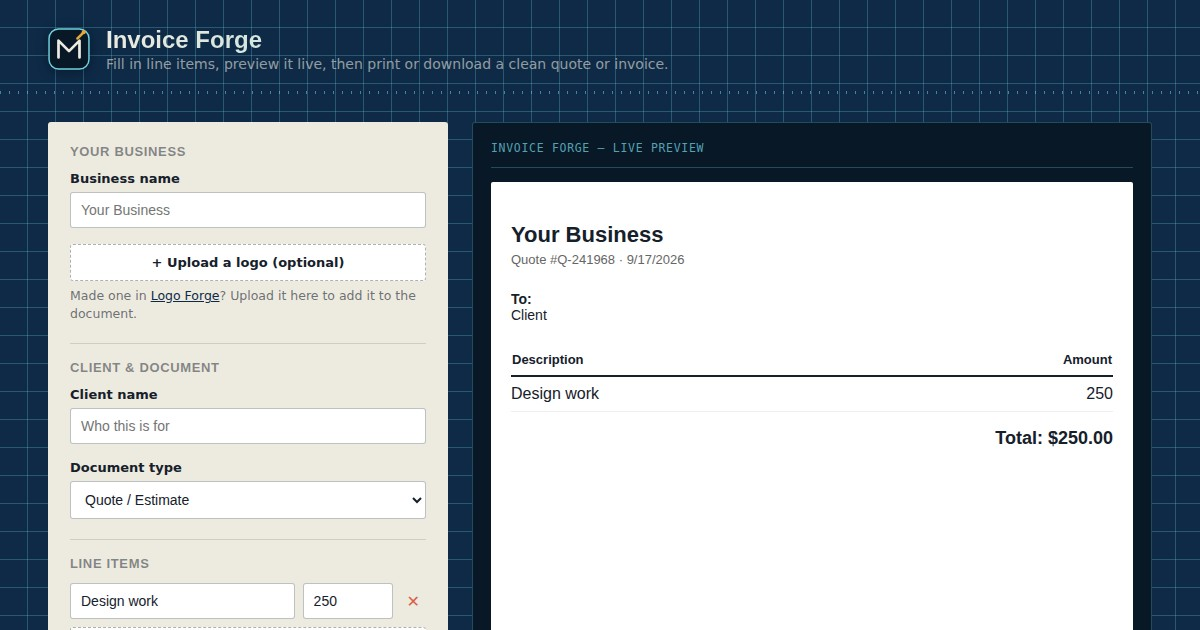
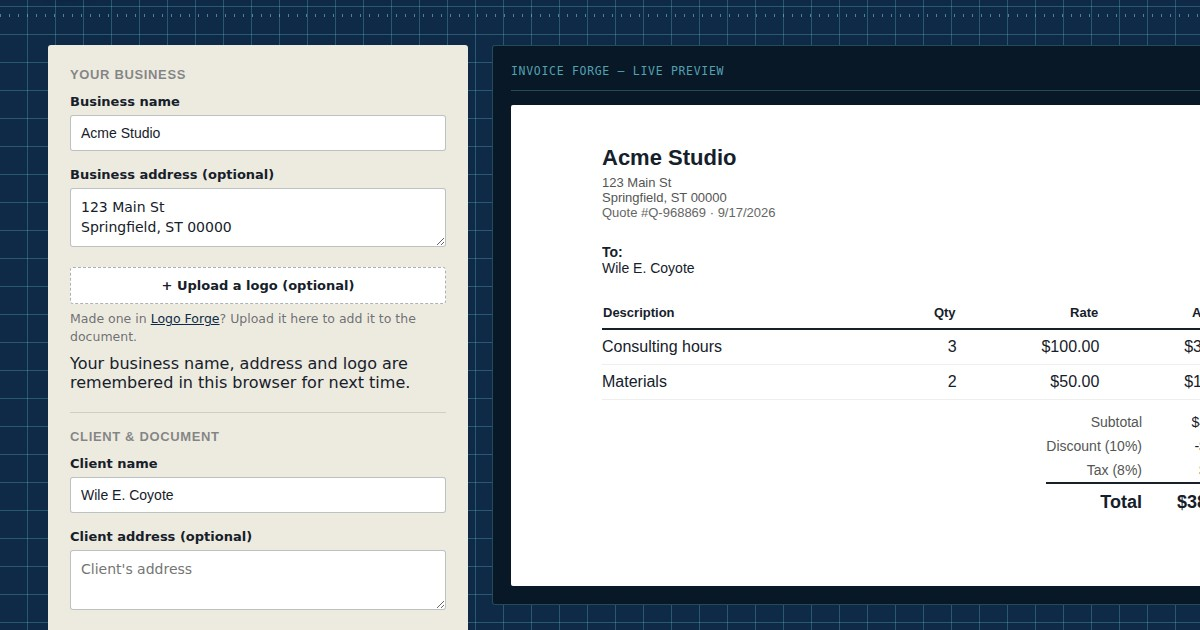
Add tax/discount math, qty×rate, addresses, and saved profile to Invoice Forge
Invoice Forge previously had one free-text "amount" field per line item and
just summed them with no tax, discount, quantity, or address support —
missing a near-hard requirement for a real invoice tool.

- Line items now use quantity × rate with a live computed line total instead
  of one flat amount field.
- Added discount (%) and tax rate (%) fields; the preview now shows a real
  subtotal → discount → tax → total breakdown.
- Added optional business and client address fields, shown in the generated
  document.
- Business name, address, and logo are now remembered via localStorage (the
  same per-browser-only storage the rest of the site uses) so repeat users
  don't have to re-enter their own business info every time; client info is
  intentionally not persisted since it changes per document.

Tested with Playwright: verified qty×rate line totals compute correctly,
verified the full discount/tax math against hand-calculated expected values
(subtotal $400, 10% discount, 8% tax → $388.80 total) by reading the actual
rendered preview iframe, verified addresses appear in the document, verified
the business profile survives a reload while client fields correctly don't,
and verified row add/remove — zero console errors. Regenerated the OG
screenshot.

Claude-Session: https://claude.ai/code/session_01YHretEVuD8m4VENuHZYMER

diff --git a/invoice-forge.html b/invoice-forge.html
@@ -4,15 +4,15 @@
 <meta charset="UTF-8" />
 <meta name="viewport" content="width=device-width, initial-scale=1.0" />
 <title>Invoice Forge — free quote &amp; invoice generator</title>
-<meta name="description" content="Fill in line items and a client name, get a clean quote or invoice document — preview it live, print it, or download it as HTML. No account, no AI call, right in your browser.">
+<meta name="description" content="Fill in line items, quantities, tax and a client name, get a clean quote or invoice document — preview it live, print it, or download it as HTML. No account, no AI call, right in your browser.">
 <meta property="og:type" content="website">
 <meta property="og:title" content="Invoice Forge — free quote &amp; invoice generator">
-<meta property="og:description" content="Fill in line items and a client name, get a clean quote or invoice document — preview it live, print it, or download it as HTML. No account, no AI call, right in your browser.">
+<meta property="og:description" content="Fill in line items, quantities, tax and a client name, get a clean quote or invoice document — preview it live, print it, or download it as HTML. No account, no AI call, right in your browser.">
 <meta property="og:image" content="https://migabuilder.com/assets/og/invoice-forge.jpg">
 <meta property="og:url" content="https://migabuilder.com/invoice-forge.html">
 <meta name="twitter:card" content="summary_large_image">
 <meta name="twitter:title" content="Invoice Forge — free quote &amp; invoice generator">
-<meta name="twitter:description" content="Fill in line items and a client name, get a clean quote or invoice document — preview it live, print it, or download it as HTML. No account, no AI call, right in your browser.">
+<meta name="twitter:description" content="Fill in line items, quantities, tax and a client name, get a clean quote or invoice document — preview it live, print it, or download it as HTML. No account, no AI call, right in your browser.">
 <meta name="twitter:image" content="https://migabuilder.com/assets/og/invoice-forge.jpg">
 <link rel="preconnect" href="https://fonts.googleapis.com">
 <link rel="preconnect" href="https://fonts.gstatic.com" crossorigin>
@@ -58,7 +58,7 @@
 
   main {
     display: grid;
-    grid-template-columns: minmax(320px, 400px) 1fr;
+    grid-template-columns: minmax(320px, 420px) 1fr;
     gap: 24px;
     padding: 28px clamp(20px, 4vw, 48px) 56px;
     align-items: start;
@@ -82,10 +82,11 @@
   }
   .section-title:first-of-type { margin-top: 0; padding-top: 0; border-top: none; }
 
-  input[type="text"], select {
+  input[type="text"], select, textarea {
     width: 100%; font-family: 'IBM Plex Sans', sans-serif; font-size: 14px; padding: 9px 10px;
     border: 1px solid rgba(22, 32, 43, 0.28); border-radius: var(--radius); background: #fff; color: var(--ink);
   }
+  textarea { resize: vertical; min-height: 54px; line-height: 1.4; font-family: inherit; }
 
   .upload-btn {
     display: inline-block; background: #fff; border: 1px dashed rgba(22, 32, 43, 0.35); border-radius: var(--radius);
@@ -109,13 +110,19 @@
   }
   .error-box.show { display: block; }
 
-  .item-row { display: grid; grid-template-columns: 2fr 90px auto; gap: 8px; margin-bottom: 8px; }
-  .item-row input { width: 100%; }
+  .item-row-header { display: grid; grid-template-columns: 2fr 55px 75px 75px 22px; gap: 8px; margin-bottom: 6px; padding: 0 2px; }
+  .item-row-header span { font-size: 11px; font-weight: 600; text-transform: uppercase; letter-spacing: 0.04em; color: rgba(22, 32, 43, 0.5); }
+  .item-row { display: grid; grid-template-columns: 2fr 55px 75px 75px 22px; gap: 8px; margin-bottom: 8px; align-items: center; }
+  .item-row input { width: 100%; padding: 8px 8px; font-size: 13px; }
+  .item-row .i-line-total { font-size: 13px; font-weight: 600; text-align: right; padding-right: 2px; white-space: nowrap; overflow: hidden; text-overflow: ellipsis; }
   .item-row button { background: transparent; border: none; cursor: pointer; font-size: 16px; color: var(--error); }
   .add-row-btn {
     width: 100%; background: #fff; border: 1px dashed rgba(22, 32, 43, 0.35); border-radius: var(--radius);
     padding: 9px; font-size: 13px; cursor: pointer; color: var(--ink);
   }
+
+  .totals-row { display: flex; gap: 10px; }
+  .totals-row .field { flex: 1; }
 
   .table {
     background: var(--navy-deep); border: 1px solid var(--line-cyan-dim); border-radius: var(--radius);
@@ -165,15 +172,24 @@
       <input type="text" id="bizName" placeholder="Your Business">
     </div>
     <div class="field">
+      <label for="bizAddress">Business address (optional)</label>
+      <textarea id="bizAddress" placeholder="123 Main St&#10;City, ST 00000"></textarea>
+    </div>
+    <div class="field">
       <label class="upload-btn" for="logoInput">+ Upload a logo (optional)</label>
       <input type="file" id="logoInput" accept="image/*" style="display:none;">
       <p class="hint" id="logoHint">Made one in <a href="logo-forge.html" style="color:var(--navy);text-decoration:underline;">Logo Forge</a>? Upload it here to add it to the document.</p>
     </div>
+    <p class="hint" id="profileSavedHint" style="margin-top:-8px;">Your business name, address and logo are remembered in this browser for next time.</p>
 
     <div class="section-title">Client &amp; document</div>
     <div class="field">
       <label for="clientName">Client name</label>
       <input type="text" id="clientName" placeholder="Who this is for">
+    </div>
+    <div class="field">
+      <label for="clientAddress">Client address (optional)</label>
+      <textarea id="clientAddress" placeholder="Client's address"></textarea>
     </div>
     <div class="field">
       <label for="docType">Document type</label>
@@ -184,8 +200,23 @@
     </div>
 
     <div class="section-title">Line items</div>
+    <div class="item-row-header">
+      <span>Description</span><span>Qty</span><span>Rate</span><span>Amount</span><span></span>
+    </div>
     <div id="itemRows"></div>
     <button type="button" class="add-row-btn" id="addRowBtn">+ Add line item</button>
+
+    <div class="section-title">Totals</div>
+    <div class="totals-row">
+      <div class="field">
+        <label for="discountPct">Discount (%)</label>
+        <input type="text" id="discountPct" placeholder="0">
+      </div>
+      <div class="field">
+        <label for="taxPct">Tax rate (%)</label>
+        <input type="text" id="taxPct" placeholder="0">
+      </div>
+    </div>
 
     <div class="error-box" id="errorBox"></div>
     <div class="btn-row" style="margin-top:18px;">
@@ -208,21 +239,51 @@
   "use strict";
 
   const bizNameInput = document.getElementById('bizName');
+  const bizAddressInput = document.getElementById('bizAddress');
   const logoInput = document.getElementById('logoInput');
   const logoHint = document.getElementById('logoHint');
   const clientName = document.getElementById('clientName');
+  const clientAddress = document.getElementById('clientAddress');
   const docType = document.getElementById('docType');
   const itemRowsEl = document.getElementById('itemRows');
   const addRowBtn = document.getElementById('addRowBtn');
+  const discountPctInput = document.getElementById('discountPct');
+  const taxPctInput = document.getElementById('taxPct');
   const errorBox = document.getElementById('errorBox');
   const printBtn = document.getElementById('printBtn');
   const downloadBtn = document.getElementById('downloadBtn');
   const previewFrame = document.getElementById('previewFrame');
 
   let logoDataUrl = '';
+  const PROFILE_KEY = 'invoiceForgeBusinessProfile_v1';
 
   function showError(msg) { errorBox.textContent = msg; errorBox.classList.add('show'); }
   function clearError() { errorBox.textContent = ''; errorBox.classList.remove('show'); }
+
+  function saveProfile() {
+    try {
+      localStorage.setItem(PROFILE_KEY, JSON.stringify({
+        bizName: bizNameInput.value,
+        bizAddress: bizAddressInput.value,
+        logoDataUrl: logoDataUrl
+      }));
+    } catch (e) {}
+  }
+
+  function loadProfile() {
+    try {
+      const raw = localStorage.getItem(PROFILE_KEY);
+      if (!raw) return;
+      const profile = JSON.parse(raw);
+      if (profile.bizName) bizNameInput.value = profile.bizName;
+      if (profile.bizAddress) bizAddressInput.value = profile.bizAddress;
+      if (profile.logoDataUrl) {
+        logoDataUrl = profile.logoDataUrl;
+        logoHint.textContent = 'Logo remembered from last time — upload a new one to replace it.';
+      }
+    } catch (e) {}
+  }
+  loadProfile();
 
   logoInput.addEventListener('change', function (e) {
     const file = (e.target.files || [])[0];
@@ -231,65 +292,101 @@
     reader.onload = function () {
       logoDataUrl = reader.result;
       logoHint.textContent = 'Logo added: ' + file.name;
+      saveProfile();
       renderPreview();
     };
     reader.readAsDataURL(file);
   });
 
-  function addRow(desc, amount) {
+  function parseNumber(str, fallback) {
+    const n = parseFloat(String(str == null ? '' : str).replace(/[^0-9.\-]/g, ''));
+    return isNaN(n) ? fallback : n;
+  }
+
+  function updateRowLineTotal(row) {
+    const qty = parseNumber(row.querySelector('.i-qty').value, 1);
+    const rate = parseNumber(row.querySelector('.i-rate').value, 0);
+    row.querySelector('.i-line-total').textContent = '$' + (qty * rate).toFixed(2);
+  }
+
+  function addRow(desc, qty, rate) {
     const row = document.createElement('div');
     row.className = 'item-row';
     row.innerHTML =
       '<input type="text" class="i-desc" placeholder="Description" value="' + (desc || '').replace(/"/g, '&quot;') + '">' +
-      '<input type="text" class="i-amount" placeholder="$0" value="' + (amount || '').replace(/"/g, '&quot;') + '">' +
+      '<input type="text" class="i-qty" placeholder="1" value="' + (qty != null ? qty : 1) + '">' +
+      '<input type="text" class="i-rate" placeholder="0.00" value="' + (rate != null ? rate : '') + '">' +
+      '<span class="i-line-total">$0.00</span>' +
       '<button type="button" title="Remove">✕</button>';
-    row.querySelectorAll('input').forEach(inp => inp.addEventListener('input', renderPreview));
+    row.querySelectorAll('.i-qty, .i-rate').forEach(inp => inp.addEventListener('input', function () { updateRowLineTotal(row); renderPreview(); }));
+    row.querySelector('.i-desc').addEventListener('input', renderPreview);
     row.querySelector('button').addEventListener('click', function () { row.remove(); renderPreview(); });
     itemRowsEl.appendChild(row);
+    updateRowLineTotal(row);
   }
-  addRowBtn.addEventListener('click', function () { addRow(); renderPreview(); });
-  addRow('Design work', '250');
+  addRowBtn.addEventListener('click', function () { addRow('', 1, ''); renderPreview(); });
+  addRow('Design work', 1, '250');
 
-  [bizNameInput, clientName, docType].forEach(el => el.addEventListener('input', renderPreview));
+  [bizNameInput, bizAddressInput, clientName, clientAddress, docType, discountPctInput, taxPctInput].forEach(el => el.addEventListener('input', renderPreview));
+  [bizNameInput, bizAddressInput].forEach(el => el.addEventListener('input', saveProfile));
 
-  function parseAmount(str) {
-    const n = parseFloat(String(str).replace(/[^0-9.\-]/g, ''));
-    return isNaN(n) ? 0 : n;
-  }
+  function money(n) { return '$' + n.toFixed(2); }
 
   function buildDocument() {
-    const items = Array.from(itemRowsEl.querySelectorAll('.item-row')).map(row => ({
-      desc: row.querySelector('.i-desc').value.trim(),
-      amount: row.querySelector('.i-amount').value.trim()
-    })).filter(i => i.desc);
+    const items = Array.from(itemRowsEl.querySelectorAll('.item-row')).map(row => {
+      const qty = parseNumber(row.querySelector('.i-qty').value, 1);
+      const rate = parseNumber(row.querySelector('.i-rate').value, 0);
+      return { desc: row.querySelector('.i-desc').value.trim(), qty: qty, rate: rate, lineTotal: qty * rate };
+    }).filter(i => i.desc);
 
     const bizName = bizNameInput.value.trim() || 'Your Business';
+    const bizAddr = bizAddressInput.value.trim();
     const type = docType.value;
     const client = clientName.value.trim() || 'Client';
+    const clientAddr = clientAddress.value.trim();
     const date = new Date().toLocaleDateString();
     const docNumber = type.slice(0, 1) + '-' + Date.now().toString().slice(-6);
-    const total = items.reduce((sum, i) => sum + parseAmount(i.amount), 0);
+
+    const subtotal = items.reduce((sum, i) => sum + i.lineTotal, 0);
+    const discountPct = Math.max(0, parseNumber(discountPctInput.value, 0));
+    const taxPct = Math.max(0, parseNumber(taxPctInput.value, 0));
+    const discountAmt = subtotal * (discountPct / 100);
+    const taxable = subtotal - discountAmt;
+    const taxAmt = taxable * (taxPct / 100);
+    const total = taxable + taxAmt;
+
     const rowsHtml = items.length
       ? items.map(i =>
           '<tr><td style="padding:8px 0;border-bottom:1px solid #eee;">' + i.desc.replace(/</g, '&lt;') + '</td>' +
-          '<td style="padding:8px 0;border-bottom:1px solid #eee;text-align:right;">' + (i.amount.replace(/</g, '&lt;') || '—') + '</td></tr>'
+          '<td style="padding:8px 0;border-bottom:1px solid #eee;text-align:right;">' + i.qty + '</td>' +
+          '<td style="padding:8px 0;border-bottom:1px solid #eee;text-align:right;">' + money(i.rate) + '</td>' +
+          '<td style="padding:8px 0;border-bottom:1px solid #eee;text-align:right;">' + money(i.lineTotal) + '</td></tr>'
         ).join('')
-      : '<tr><td colspan="2" style="padding:8px 0;color:#999;">Add a line item on the left…</td></tr>';
+      : '<tr><td colspan="4" style="padding:8px 0;color:#999;">Add a line item on the left…</td></tr>';
     const logoBlock = logoDataUrl ? '<img src="' + logoDataUrl + '" style="max-width:120px;max-height:70px;margin-bottom:10px;">' : '';
+    const bizAddrBlock = bizAddr ? '<div style="white-space:pre-line;font-size:13px;color:#555;margin-top:2px;">' + bizAddr.replace(/</g, '&lt;') + '</div>' : '';
+    const clientAddrBlock = clientAddr ? '<div style="white-space:pre-line;">' + clientAddr.replace(/</g, '&lt;') + '</div>' : '';
+
+    const totalsRows = [];
+    totalsRows.push('<tr><td style="padding:4px 0;text-align:right;color:#555;">Subtotal</td><td style="padding:4px 0;text-align:right;width:100px;">' + money(subtotal) + '</td></tr>');
+    if (discountAmt > 0) totalsRows.push('<tr><td style="padding:4px 0;text-align:right;color:#555;">Discount (' + discountPct + '%)</td><td style="padding:4px 0;text-align:right;">-' + money(discountAmt) + '</td></tr>');
+    if (taxAmt > 0) totalsRows.push('<tr><td style="padding:4px 0;text-align:right;color:#555;">Tax (' + taxPct + '%)</td><td style="padding:4px 0;text-align:right;">' + money(taxAmt) + '</td></tr>');
+    totalsRows.push('<tr><td style="padding:8px 0 0;text-align:right;font-size:18px;font-weight:bold;border-top:2px solid #16202B;">Total</td><td style="padding:8px 0 0;text-align:right;font-size:18px;font-weight:bold;border-top:2px solid #16202B;">' + money(total) + '</td></tr>');
 
     const html = '<!DOCTYPE html><html><head><meta charset="UTF-8"><title>' + type + ' ' + docNumber + '</title>' +
       '<style>body{font-family:Arial,sans-serif;color:#16202B;max-width:640px;margin:40px auto;padding:0 20px;}' +
       'h1{font-size:22px;margin:0 0 4px;} .meta{color:#666;font-size:13px;margin-bottom:24px;}' +
-      'table{width:100%;border-collapse:collapse;margin-bottom:16px;} th{text-align:left;border-bottom:2px solid #16202B;padding-bottom:8px;font-size:13px;}' +
-      '.total{text-align:right;font-size:18px;font-weight:bold;margin-top:8px;}' +
-      '.parties{display:flex;justify-content:space-between;margin-bottom:28px;font-size:14px;}' +
+      'table{width:100%;border-collapse:collapse;margin-bottom:6px;} th{text-align:left;border-bottom:2px solid #16202B;padding-bottom:8px;font-size:13px;}' +
+      '.totals-table{width:auto;margin-left:auto;margin-top:10px;font-size:14px;}' +
+      '.parties{display:flex;justify-content:space-between;margin-bottom:28px;font-size:14px;gap:20px;}' +
       '@media print{body{margin:0;}}</style></head><body>' +
       logoBlock +
       '<h1>' + bizName.replace(/</g, '&lt;') + '</h1>' +
+      bizAddrBlock +
       '<div class="meta">' + type + ' #' + docNumber + ' · ' + date + '</div>' +
-      '<div class="parties"><div><strong>To:</strong><br>' + client.replace(/</g, '&lt;') + '</div></div>' +
-      '<table><tr><th>Description</th><th style="text-align:right;">Amount</th></tr>' + rowsHtml + '</table>' +
-      '<div class="total">Total: ' + (total ? '$' + total.toFixed(2) : 'See items above') + '</div>' +
+      '<div class="parties"><div><strong>To:</strong><br>' + client.replace(/</g, '&lt;') + clientAddrBlock + '</div></div>' +
+      '<table><tr><th>Description</th><th style="text-align:right;">Qty</th><th style="text-align:right;">Rate</th><th style="text-align:right;">Amount</th></tr>' + rowsHtml + '</table>' +
+      '<table class="totals-table">' + totalsRows.join('') + '</table>' +
       '</body></html>';
 
     return { html: html, filename: type.toLowerCase() + '-' + docNumber + '.html', hasItems: items.length > 0 };
